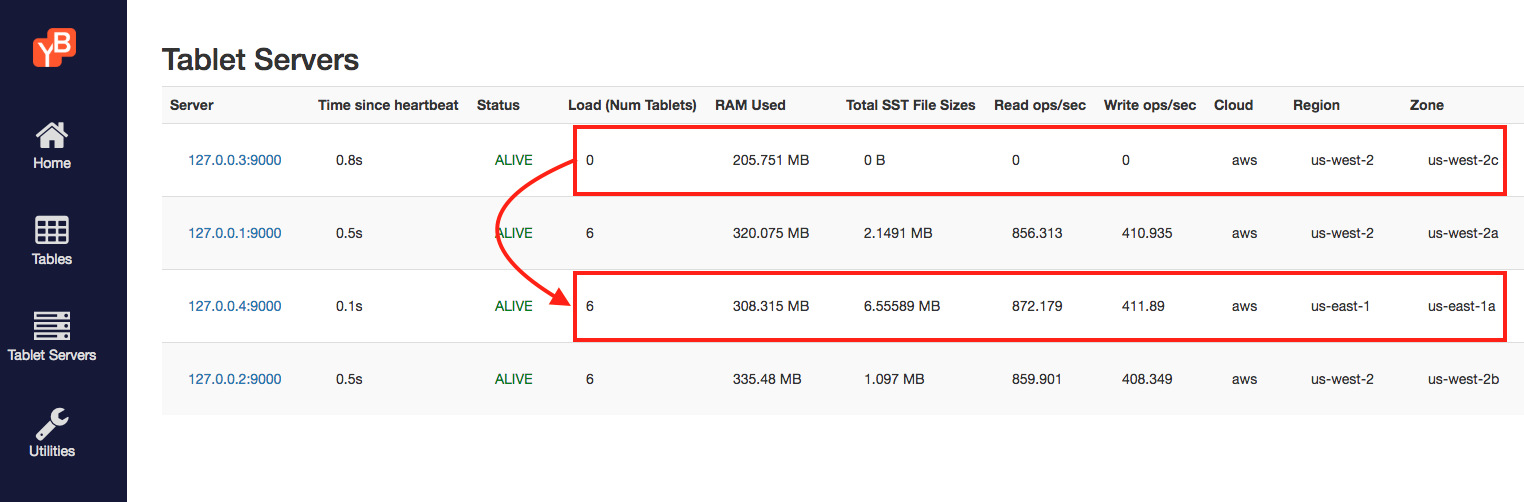
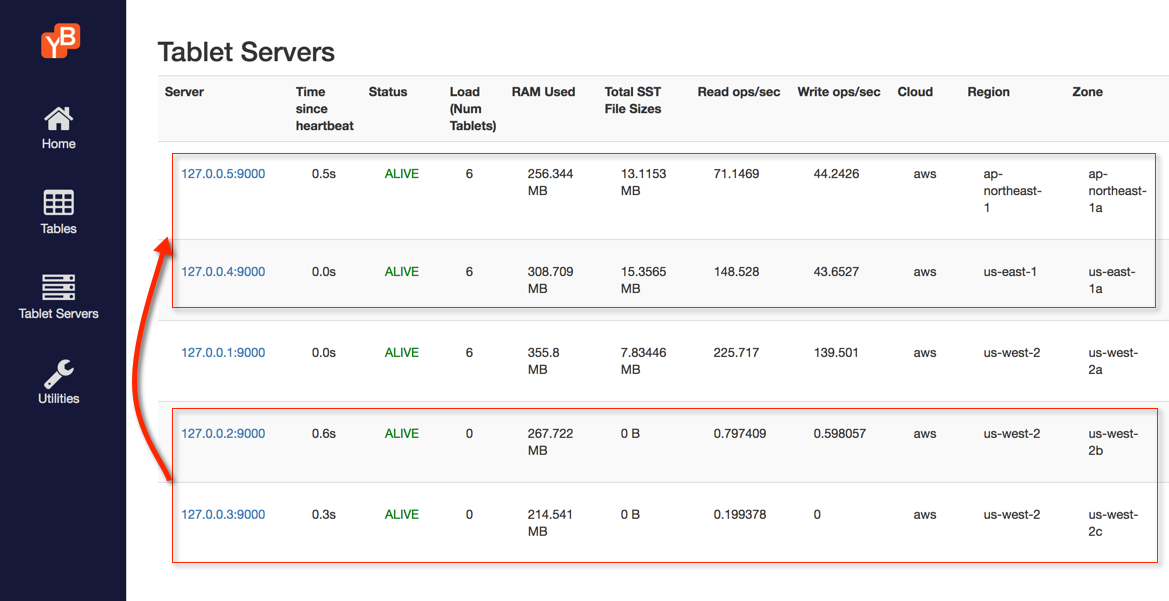
updated explore section incl. global distribution
Test Plan: local

Reviewers: karthik, ram

Reviewed By: ram

Differential Revision: https://phabricator.dev.yugabyte.com/D4855

diff --git a/docs/content/latest/explore/planet-scale/binary/global-distribution.md b/docs/content/latest/explore/planet-scale/binary/global-distribution.md
@@ -12,7 +12,6 @@ Start a new local universe with replication factor 3, and each replica placed in
 $ ./bin/yb-ctl create --placement_info "aws.us-west-2.us-west-2a,aws.us-west-2.us-west-2b,aws.us-west-2.us-west-2c"
 ```
 
-
 In this deployment, the YB Masters are each placed in a separate zone to allow them to survive the loss of a zone. You can view the masters on the [dashboard](http://localhost:7000/).
 
 ![Multi-zone universe masters](/images/ce/online-reconfig-multi-zone-masters.png)
@@ -37,99 +36,79 @@ You should now see some read and write load on the [tablet servers page](http://
 
 ![Multi-zone universe load](/images/ce/online-reconfig-multi-zone-load.png)
 
-## 3. Add a region in US East
+## 3. Add nodes in US East and Tokyo regions
 
-Add a node in the region `us-east-1`, zone `us-east-1a`. 
+### Add new nodes
+Add a node in the zone `us-east-1a` of region `us-east-1`. 
 
 ```{.sh .copy .separator-dollar}
 $ ./bin/yb-ctl add_node --placement_info "aws.us-east-1.us-east-1a"
 ```
 
-At this point, a new node is added into `us-east-1` region in zone `us-east-1a`, but it should not be taking any read or write IO. This is because the initial placement info in YB Master instructs it to continue its previous placement policy across the zones in `us-west-2` region.
-
-![Add node in a new region](/images/ce/online-reconfig-add-region-no-load.png)
-
-Let us now update the placement config, instructing the YB-Master to place data in the new region (`region2`).
-
-```{.sh .copy .separator-dollar}
-$ ./bin/yb-admin --master_addresses 127.0.0.1:7100,127.0.0.2:7100,127.0.0.3:7100 \
-    modify_placement_info aws.us-west-2.us-west-2a,aws.us-west-2.us-west-2b,aws.us-east-1.us-east-1a 3
-```
-
-You should see that the data as well as the IO gradually moves from node #3 in the zone `us-west-2c` to the newly added node (node #4) in the zone `us-east-1a`. The [tablet servers page](http://localhost:7000/tablet-servers) should soon look something like the screenshot below.
-
-![Multi region workload](/images/ce/online-reconfig-multi-region-load.png)
-
-Next we need to move the YB-Master from node #3 to node #4. In order to do so, first start a new master process on node 4.
-
-```{.sh .copy .separator-dollar}
-$ ./bin/yb-ctl add_node --master
-```
-
-Add node #4 into the master Raft group.
-
-```{.sh .copy .separator-dollar}
-$ ./bin/yb-admin --master_addresses 127.0.0.1:7100,127.0.0.2:7100,127.0.0.3:7100 change_master_config ADD_SERVER 127.0.0.4 7100
-```
-
-![Add master](/images/ce/online-reconfig-add-master.png)
-
-Remove node #3 from the master Raft group.
-
-```{.sh .copy .separator-dollar}
-$ ./bin/yb-admin --master_addresses 127.0.0.1:7100,127.0.0.2:7100,127.0.0.3:7100,127.0.0.4:7100 change_master_config REMOVE_SERVER 127.0.0.3 7100
-```
-
-![Add master](/images/ce/online-reconfig-remove-master.png)
-
-
-## 4. Add a region in Tokyo
-
-
-Let us now add another node in a the Tokyo zone `ap-northeast-1a`. You can do so by running the command below. 
+Add another node in the zone `ap-northeast-1a` of region `ap-northeast-1`.
 
 ```{.sh .copy .separator-dollar}
 $ ./bin/yb-ctl add_node --placement_info "aws.ap-northeast-1.ap-northeast-1a"
 ```
 
-You can see the node added in the screenshot below.
+At this point, these 2 new nodes are added into the cluster but are not taking any read or write IO. This is because  YB Master's initial placement policy of storing data across the zones in `us-west-2` region still applies.
 
-![Multi region universe](/images/ce/online-reconfig-add-region-no-load-2.png)
+![Add node in a new region](/images/ce/online-reconfig-add-regions-no-load.png)
 
-Next, update the placement config instructing the YB-Master to place data in the new cloud.
+### Update placement policy
 
-```{.sh .copy .separator-dollar}
-$ ./bin/yb-admin --master_addresses 127.0.0.1:7100,127.0.0.2:7100,127.0.0.3:7100 \
-    modify_placement_info aws.us-west-2.us-west-2a,aws.us-east-1.us-east-1c,aws.ap-northeast-1.ap-northeast-1a 3
-```
-
-The new node should now start taking load gradually until it finally is serving all the load from node #2.
-
-![Multi region universe with load](/images/ce/online-reconfig-multi-region-load-2.png)
-
-As before, let us add node #5 into the master Raft group and remove node #2 from it. First start the master on node #5.
+Let us now update the placement policy, instructing the YB-Master to place data in the new regions.
 
 ```{.sh .copy .separator-dollar}
-$ ./bin/yb-ctl add_node --master
+$ ./bin/yb-admin --master_addresses 127.0.0.1:7100,127.0	.0.2:7100,127.0.0.3:7100 \
+    modify_placement_info aws.us-west-2.us-west-2a,aws.us-east-1.us-east-1a,aws.ap-northeast-1.ap-northeast-1a 3
 ```
 
+You should see that the data as well as the IO gradually moves from the nodes in `us-west-2b` and `us-west-2c` to the newly added nodes. The [tablet servers page](http://localhost:7000/tablet-servers) should soon look something like the screenshot below.
 
-You can add node #5 into the master Raft group by running the following commands.
+![Multi region workload](/images/ce/online-reconfig-multi-region-load.png)
+
+## 4. Retire old nodes
+
+### Start new masters
+Next we need to move the YB-Master from the old nodes to the new nodes. In order to do so, first start a new masters on the new nodes.
 
 ```{.sh .copy .separator-dollar}
-$ ./bin/yb-admin --master_addresses 127.0.0.1:7100,127.0.0.2:7100,127.0.0.4:7100 change_master_config ADD_SERVER 127.0.0.5 7100
+$ ./bin/yb-ctl add_node --master --placement_info "aws.us-east-1.us-east-1a"
 ```
-
-Remove node #3 from the master Raft group.
 
 ```{.sh .copy .separator-dollar}
-$ ./bin/yb-admin --master_addresses 127.0.0.1:7100,127.0.0.2:7100,127.0.0.4:7100,127.0.0.5:7100 change_master_config REMOVE_SERVER 127.0.0.2 7100
+$ ./bin/yb-ctl add_node --master --placement_info "aws.ap-northeast-1.ap-northeast-1a"
 ```
 
-The final master Raft group should look as follows.
+![Add master](/images/ce/online-reconfig-add-masters.png)
 
-![Multi region universe with load](/images/ce/online-reconfig-change-master-2.png)
+### Remove old masters
+Remove the old masters from the masters Raft group. Assuming nodes with IPs 127.0.0.2 and 127.0.0.3 were the two old nodes, run the following commands.
 
+```{.sh .copy .separator-dollar}
+$ ./bin/yb-admin --master_addresses 127.0.0.1:7100,127.0.0.2:7100,127.0.0.3:7100,127.0.0.4:7100,127.0.0.5:7100 change_master_config REMOVE_SERVER 127.0.0.2 7100
+```
+
+```{.sh .copy .separator-dollar}
+$ ./bin/yb-admin --master_addresses 127.0.0.1:7100,127.0.0.3:7100,127.0.0.4:7100,127.0.0.5:7100 change_master_config REMOVE_SERVER 127.0.0.3 7100
+```
+
+![Add master](/images/ce/online-reconfig-remove-masters.png)
+
+### Remove old nodes
+
+Now it's safe to remove the old nodes.
+
+```{.sh .copy .separator-dollar}
+$ ./bin/yb-ctl remove_node 2
+```
+
+```{.sh .copy .separator-dollar}
+$ ./bin/yb-ctl remove_node 3
+```
+
+![Add master](/images/ce/online-reconfig-remove-nodes.png)
 
 ## 5. Clean up (optional)
 

diff --git a/docs/content/latest/explore/planet-scale/global-distribution.md b/docs/content/latest/explore/planet-scale/global-distribution.md
@@ -13,9 +13,9 @@ menu:
 
 YugaByte DB can easily be deployed in a globally distributed manner to serve application queries from the region closest to the end users with low latencies as well as to survive any outages to ensure high availability.
 
-This tutorial will simulate AWS regions on a local machine. First, we will deploy YugaByte DB in the `us-west-2` region across multiple availability zones (`a`, `b`, `c`). We will start a key-value workload against this universe. Next, we will change this setup to run across multiple geographic regions in US East (`us-east-1`) and Tokyo (`ap-northeast-1`), with the workload running during the entire transition.
+This tutorial will simulate AWS regions on a local machine. First, we will deploy YugaByte DB in the `us-west-2` region across multiple availability zones (`a`, `b`, `c`). We will start a key-value workload against this universe. Next, we will change this setup to run across multiple geographic regions in US East (`us-east-1`) and Tokyo (`ap-northeast-1`), with the workload running uninterrupted during the entire transition.
 
-If you haven't installed YugaByte DB yet, do so first by following the [Quick Start](../../quick-start/install/) guide.
+If you haven't installed YugaByte DB yet, do so first by following the [Quick Start](/quick-start/install/) guide.
 
 
 <ul class="nav nav-tabs nav-tabs-yb">

diff --git a/docs/content/latest/explore/high-performance/binary/tunable-reads.md b/docs/content/latest/explore/high-performance/binary/tunable-reads.md
@@ -67,7 +67,7 @@ When performing strongly consistent reads as a part of the above command, all re
 
 Let us stop the above sample app, and run the following variant of the sample app. This command will do updates to the same key `key:0` which will go through the tablet leader, but it will reads from the replicas.
 
-```{.sql .copy .separator-dollar}
+```{.sh .copy .separator-dollar}
 $ java -jar ./java/yb-sample-apps.jar --workload CassandraKeyValue \
                                     --nodes 127.0.0.1:9042 \
                                     --nouuid \
@@ -87,6 +87,6 @@ This can be easily seen by refreshing the <a href='http://127.0.0.1:7000/tablet-
 
 Optionally, you can shutdown the local cluster created in Step 1.
 
-```{.sql .copy .separator-dollar}
+```{.sh .copy .separator-dollar}
 $ ./bin/yb-ctl destroy
 ```

diff --git a/docs/content/latest/explore/_index.md b/docs/content/latest/explore/_index.md
@@ -24,7 +24,7 @@ menu:
         <div class="title">Cloud Native</div>
       </div>
       <div class="body">
-        Linear scalability and Fault tolerance.
+        Linear scalability and fault tolerance.
       </div>
     </a>
   </div>
@@ -36,7 +36,7 @@ menu:
         <div class="title">Transactional</div>
       </div>
       <div class="body">
-        Distributed ACID transactions, Secondary indexes and JSON documents.
+        Distributed ACID transactions, secondary indexes and JSON documents.
       </div>
     </a>
   </div>
@@ -59,7 +59,7 @@ menu:
         <div class="title">Planet-Scale</div>
       </div>
       <div class="body">
-        Global data distribution, Auto-sharding and Auto-rebalancing.
+        Global data distribution, auto-sharding and auto-rebalancing.
       </div>
     </a>
   </div>

diff --git a/docs/content/latest/explore/planet-scale/auto-rebalancing.md b/docs/content/latest/explore/planet-scale/auto-rebalancing.md
@@ -43,10 +43,12 @@ If you haven't installed YugaByte DB yet, do so first by following the [Quick St
   <div id="linux" class="tab-pane fade" role="tabpanel" aria-labelledby="linux-tab">
     {{% includeMarkdown "binary/auto-rebalancing.md" /%}}
   </div>
+  <!--
     <div id="docker" class="tab-pane fade" role="tabpanel" aria-labelledby="docker-tab">
     {{% includeMarkdown "docker/auto-rebalancing.md" /%}}
   </div>
   <div id="kubernetes" class="tab-pane fade" role="tabpanel" aria-labelledby="kubernetes-tab">
     {{% includeMarkdown "kubernetes/auto-rebalancing.md" /%}}
   </div>
+  -->
 </div>

diff --git a/docs/content/latest/explore/high-performance/tunable-reads.md b/docs/content/latest/explore/high-performance/tunable-reads.md
@@ -37,10 +37,12 @@ If you haven't installed YugaByte DB yet, do so first by following the [Quick St
   <div id="linux" class="tab-pane fade" role="tabpanel" aria-labelledby="linux-tab">
     {{% includeMarkdown "binary/tunable-reads.md" /%}}
   </div>
+  <!--
   <div id="docker" class="tab-pane fade" role="tabpanel" aria-labelledby="docker-tab">
     {{% includeMarkdown "docker/tunable-reads.md" /%}}
   </div>
   <div id="kubernetes" class="tab-pane fade" role="tabpanel" aria-labelledby="kubernetes-tab">
     {{% includeMarkdown "kubernetes/tunable-reads.md" /%}}
   </div>
+  -->
 </div>

diff --git a/docs/content/latest/explore/planet-scale/auto-sharding.md b/docs/content/latest/explore/planet-scale/auto-sharding.md
@@ -44,10 +44,12 @@ If you haven't installed YugaByte DB yet, do so first by following the [Quick St
   <div id="linux" class="tab-pane fade" role="tabpanel" aria-labelledby="linux-tab">
     {{% includeMarkdown "binary/auto-sharding.md" /%}}
   </div>
+  <!--
   <div id="docker" class="tab-pane fade" role="tabpanel" aria-labelledby="docker-tab">
     {{% includeMarkdown "docker/auto-sharding.md" /%}}
   </div>
   <div id="kubernetes" class="tab-pane fade" role="tabpanel" aria-labelledby="kubernetes-tab">
     {{% includeMarkdown "kubernetes/auto-sharding.md" /%}}
   </div>
+  -->
 </div>

diff --git a/docs/content/latest/api/postgresql/_index.md b/docs/content/latest/api/postgresql/_index.md
@@ -3,6 +3,7 @@ title: PostgreSQL (Beta)
 linkTitle: PostgreSQL (Beta)
 description: PostgreSQL (Beta)
 summary: PostgreSQL overview and features
+image: /images/section_icons/api/pgsql.png
 beta: /latest/faq/product/#what-is-the-definition-of-the-beta-feature-tag
 aliases:
   - api/postgresql

diff --git a/docs/content/latest/quick-start/binary/macos-install.md b/docs/content/latest/quick-start/binary/macos-install.md
@@ -18,6 +18,7 @@ Download the YugaByte DB CE package as shown below.
 ```{.sh .copy .separator-dollar}
 $ wget https://downloads.yugabyte.com/yugabyte-ce-1.0.1.0-darwin.tar.gz
 ```
+
 ```{.sh .copy .separator-dollar}
 $ tar xvfz yugabyte-ce-1.0.1.0-darwin.tar.gz && cd yugabyte-1.0.1.0/
 ```
